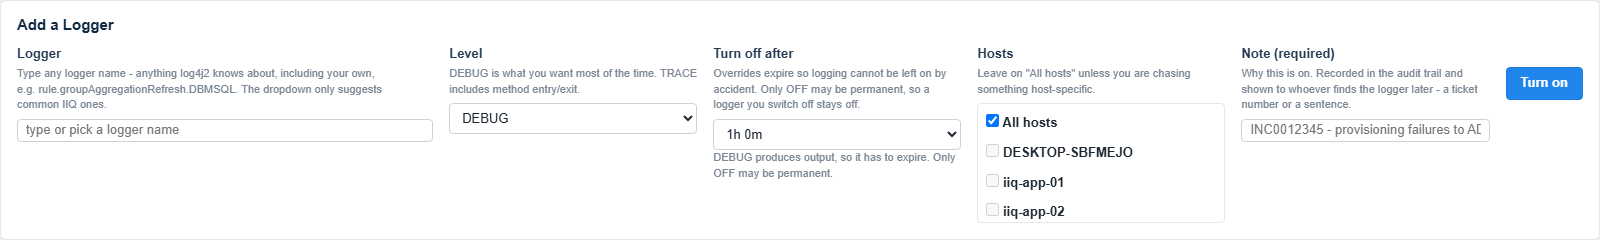
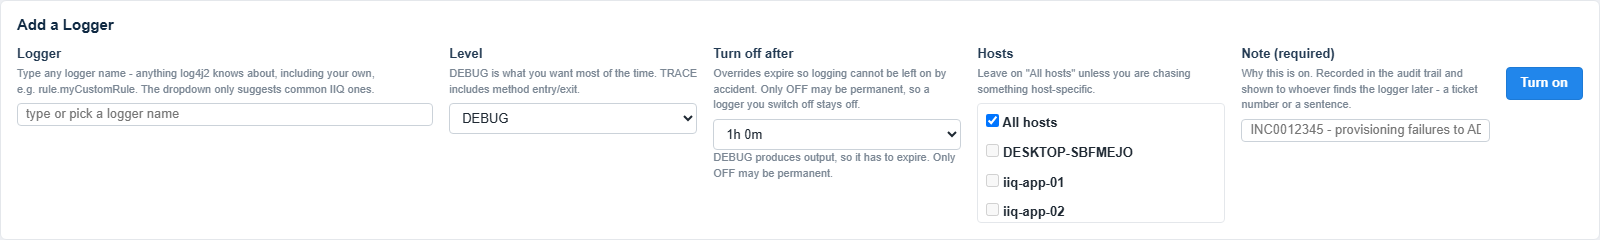
Use neutral example rule names in the fixtures, and delete dead CSS
The test fixtures, the UI's example logger, the help page and the
validation message all carried rule names taken from the environment this
was developed against. They named an internal convention and an internal
system, and they were sitting in a public repository. They are now
rule.LeaverEventHandler, rule.DisableTerminatedAccounts and
rule.myCustomRule, which illustrate the same thing and belong to nobody.

Also removes nine CSS rules for classes nothing references any more -
tol-cluster, tol-logblock, tol-scope, tol-card-alert, tol-group-head,
tol-log-filter, tol-log-small, tol-subhead and tol-cluster-host. All of
them are residue from features that were rewritten: the old two-panel log
search, the scope toggle, the per-host log blocks. 49 lines.

Checked rather than assumed, because most apparent dead code here is not:
tol-level-*, tol-lhost-*, tol-src-* and tol-os-* are all built by string
concatenation, tol-ok comes from say(msg, 'ok'), the resource methods are
reached by JAX-RS annotation rather than by call, and start() is passed as
a callback. The only genuinely unused Java method was Log4jAgent.revertAll,
a one-line wrapper nothing called; it is gone. No unused imports, no unused
variables, no leftover console.log or TODO markers, and the one duplicated
block is table-closing boilerplate that is not worth extracting.

Changed region(s): [[0.0, 0.35, 0.2812, 0.6125]]

diff --git a/ui/css/turnOnLoggers.css b/ui/css/turnOnLoggers.css
@@ -509,10 +509,6 @@
     color: #2186eb;
 }
 
-.tol-group-head {
-    margin-top: 12px;
-}
-
 /* ---------- host labels (shared by every table) ---------- */
 
 .tol-hostchips {
@@ -523,13 +519,6 @@
 }
 
 /* ---------- stranded-logger card ---------- */
-
-.tol-card-alert {
-    border-color: #f7d070;
-    border-left: 4px solid #f0b429;
-    background: #fffdf7;
-}
-
 
 /* ---------- live-logger filters and source tags ---------- */
 
@@ -687,7 +676,6 @@
 }
 
 .tol-log-select { flex: 2 1 420px; max-width: 640px; }
-.tol-log-filter { flex: 1 1 200px; max-width: 320px; }
 
 .tol-log {
     background: #102a43;
@@ -709,45 +697,9 @@
 
 /* ---------- cluster-wide log search ---------- */
 
-.tol-cluster {
-    margin-top: 20px;
-    padding-top: 16px;
-    border-top: 1px solid #e4e7eb;
-}
-
-.tol-subhead {
-    font-size: 13px;
-    font-weight: 600;
-    color: #102a43;
-    margin: 0 0 4px 0;
-}
-
-.tol-cluster-host {
-    display: flex;
-    align-items: center;
-    gap: 6px;
-    margin: 14px 0 4px 0;
-    flex-wrap: wrap;
-}
-
-.tol-log-small {
-    max-height: 260px;
-    font-size: 11px;
-}
-
 /* ---------- one log panel, one block per host ---------- */
 
-.tol-logblock {
-    margin: 14px 0 0 0;
-}
-
-.tol-logblock .tol-cluster-host {
-    margin: 0 0 4px 0;
-}
-
 /* ---------- host strip: one chip per host that answered ---------- */
-
-.tol-scope { display: inline-flex; gap: 4px; }
 
 .tol-hoststrip {
     display: flex;
@@ -876,7 +828,6 @@
     text-decoration: line-through underline;
 }
 .tol-lhost-off:hover { opacity: .7; }
-
 
 /* All / None, at the end of a chip strip. Deliberately quieter than the chips:
    they are a shortcut, not the primary way to choose a host. */

diff --git a/src/io/github/sahiljitsinghmanhas/loggermanager/rest/LoggerControlResource.java b/src/io/github/sahiljitsinghmanhas/loggermanager/rest/LoggerControlResource.java
@@ -1072,7 +1072,7 @@ public class LoggerControlResource extends BasePluginResource {
         if (!Log4jAgent.isRoot(normalized) && !LOGGER_NAME.matcher(normalized).matches()) {
             return "Logger name must look like a Java package or class name, e.g. "
                     + "sailpoint.api.Provisioner - or any custom logger of your own, "
-                    + "e.g. rule.groupAggregationRefresh.DBMSQL.";
+                    + "e.g. rule.myCustomRule.";
         }
         if (level == null || Log4jAgent.parseLevel(level) == null) {
             return "Level must be one of " + Log4jAgent.LEVELS + ".";

diff --git a/src/io/github/sahiljitsinghmanhas/loggermanager/core/Log4jAgent.java b/src/io/github/sahiljitsinghmanhas/loggermanager/core/Log4jAgent.java
@@ -200,11 +200,6 @@ public final class Log4jAgent {
         return res;
     }
 
-    /** Drop every override this JVM holds and restore log4j2.properties state. */
-    public static synchronized ApplyResult revertAll() {
-        return apply(Collections.<String, String>emptyMap());
-    }
-
     /**
      * What log4j2 currently resolves the given loggers to on this host,
      * including whether the level is set on the logger itself or inherited
